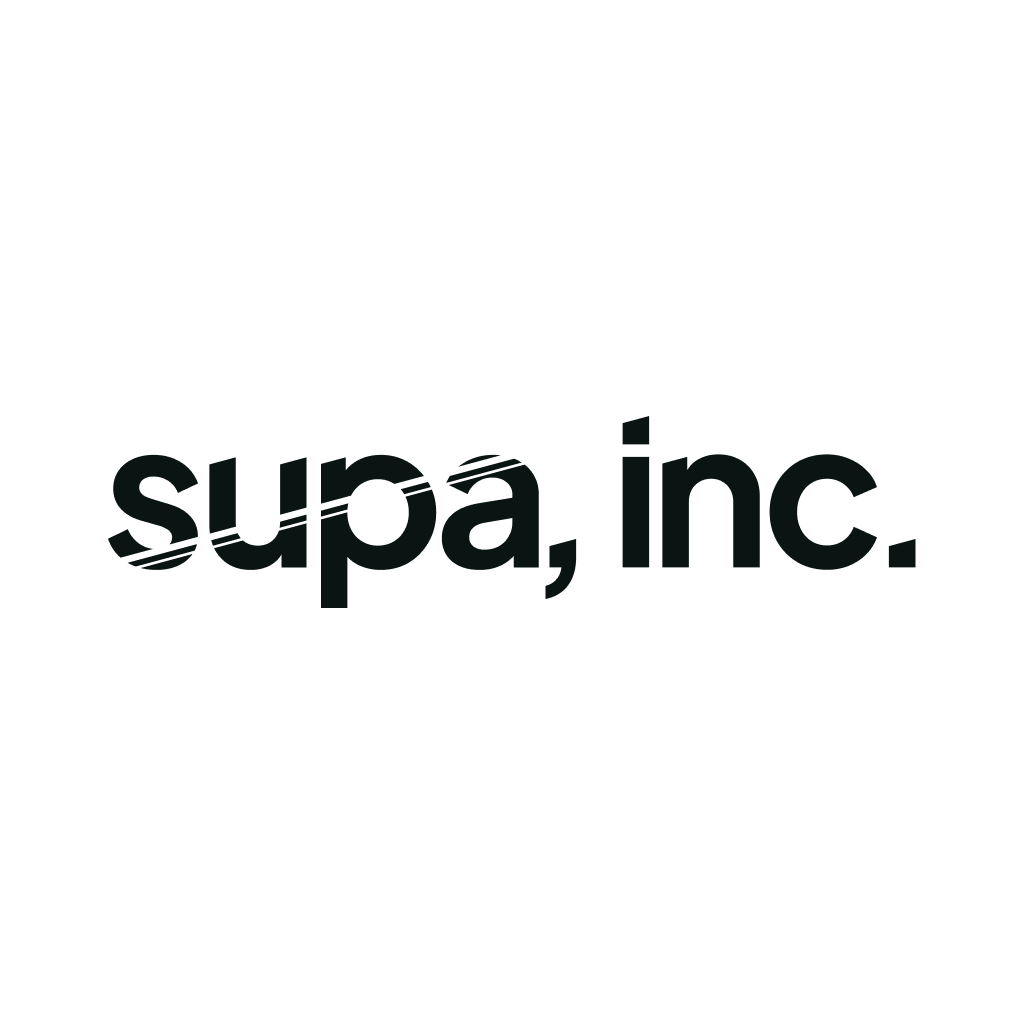
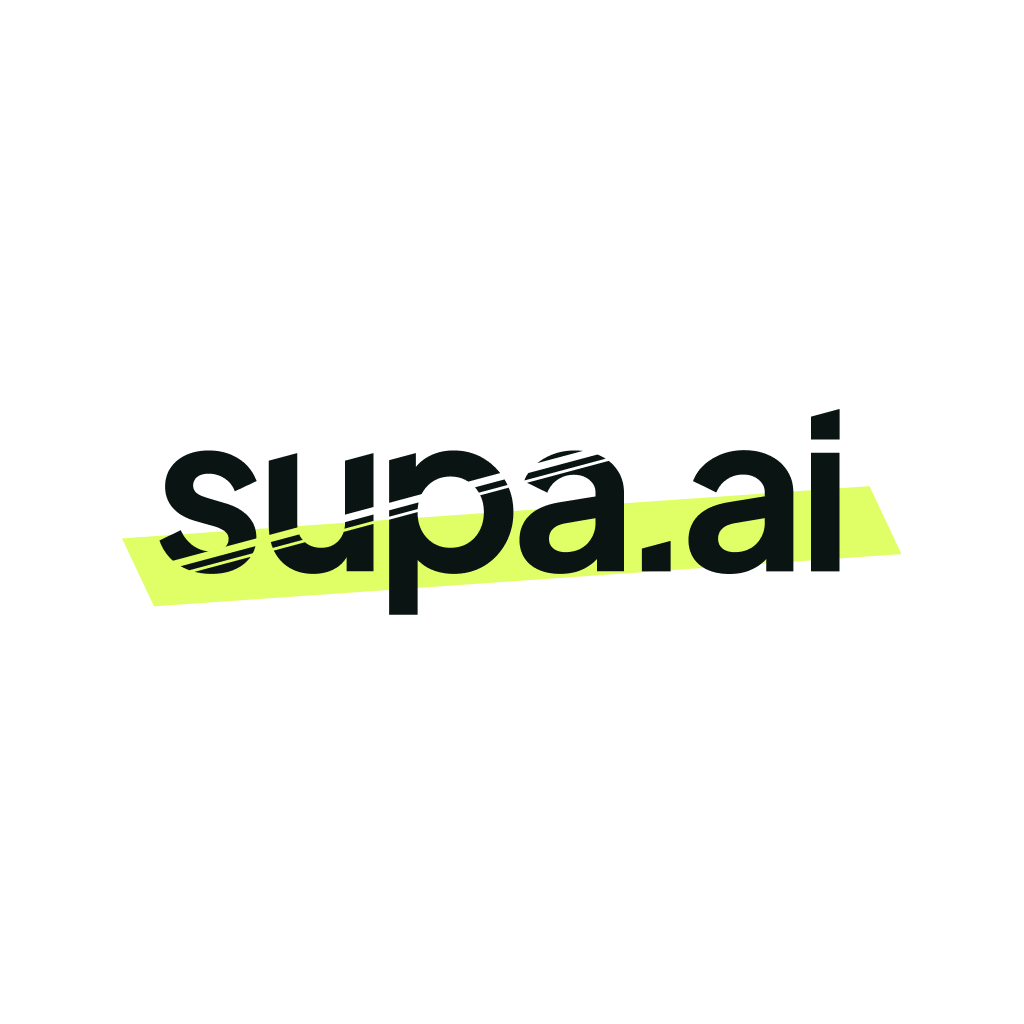
スポンサーの並びを公開データの申込順にそろえ、ロゴ未掲載の3社を載せる
会場のバックパネルをプランごとに fortee の公開データ（申込順）で並べることにしたため、
サイトも同じ順にそろえる。これまでの並びは公開データと一致していなかった。

タイムリープ、Helpfeel、サンリオは Web 用ロゴが届いていたので、Figma の Sponsor
ページの枠に置いて 2 倍で書き出した。枠に対する大きさは、既存ロゴの見える範囲を
測って縦横比との関係を求め、それに合わせている（タイムリープ 320x199、Helpfeel
296x254、サンリオ幅 388、いずれも 512 枠での値）。

supa は 10/23 にロゴのデザイン変更の連絡があったため、新しい SVG に差し替えた。

Changed region(s): [[0.0938, 0.4062, 0.9062, 0.625]]

diff --git a/2026tokyo/src/data/sponsors.ts b/2026tokyo/src/data/sponsors.ts
@@ -1,6 +1,9 @@
 // スポンサー情報。プラン構成・社名・リンク先は fortee の公開データに基づく。
 // https://fortee.jp/yapc-tokyo-2026/api/sponsors
 //
+// プランの中の並びは公開データの並び（申込順）に合わせている。会場のバックパネルも
+// 同じ順に並べているため、追加や入れ替えのときも公開データの順を保つ。
+//
 // ロゴは各社から提出されたものを Figma の Sponsor ページで 512x512 の枠に収め、
 // そこから 2 倍の 1024x1024 で書き出して src/assets/sponsors/ に置いている。
 // 枠に対するロゴの大きさは Figma 側で決めているため、差し替えるときは Figma を
@@ -26,6 +29,7 @@ import gendaLogo from "../assets/sponsors/genda.png";
 import greeLogo from "../assets/sponsors/gree.png";
 import hacomonoLogo from "../assets/sponsors/hacomono.png";
 import hatenaLogo from "../assets/sponsors/hatena.png";
+import helpfeelLogo from "../assets/sponsors/helpfeel.png";
 import hirerooLogo from "../assets/sponsors/hireroo.png";
 import jobDraftLogo from "../assets/sponsors/job-draft.png";
 import kayacLogo from "../assets/sponsors/kayac.png";
@@ -40,6 +44,7 @@ import nekotoastLogo from "../assets/sponsors/nekotoast.png";
 import optimLogo from "../assets/sponsors/optim.png";
 import reproLogo from "../assets/sponsors/repro.png";
 import sakuraLogo from "../assets/sponsors/sakura.png";
+import sanrioLogo from "../assets/sponsors/sanrio.png";
 import sansanLogo from "../assets/sponsors/sansan.png";
 import shonankaLogo from "../assets/sponsors/shonanka.png";
 import showroomLogo from "../assets/sponsors/showroom.png";
@@ -48,6 +53,7 @@ import smartbankLogo from "../assets/sponsors/smartbank.png";
 import smarthrLogo from "../assets/sponsors/smarthr.png";
 import supaLogo from "../assets/sponsors/supa.png";
 import tebikiLogo from "../assets/sponsors/tebiki.png";
+import timeleapLogo from "../assets/sponsors/timeleap.png";
 import vaddyLogo from "../assets/sponsors/vaddy.png";
 import xtmLogo from "../assets/sponsors/xtm.png";
 import zauelLogo from "../assets/sponsors/zauel.png";
@@ -57,10 +63,10 @@ export const sponsorPlans = [
     id: "perl-sponsor",
     name: "Perl Sponsor",
     sponsors: [
-      { name: "株式会社hacomono", url: "https://www.hacomono.co.jp/", logo: hacomonoLogo },
       { name: "シックス・アパート株式会社", url: "https://www.sixapart.jp/", logo: sixapartLogo },
       { name: "株式会社ディー・エヌ・エー", url: "https://dena.com/jp/", logo: denaLogo },
       { name: "さくらインターネット株式会社", url: "https://www.sakura.ad.jp/", logo: sakuraLogo },
+      { name: "株式会社hacomono", url: "https://www.hacomono.co.jp/", logo: hacomonoLogo },
     ],
   },
   {
@@ -68,23 +74,24 @@ export const sponsorPlans = [
     name: "Platinum Sponsor",
     sponsors: [
       { name: "株式会社スマートバンク", url: "https://smartbank.co.jp/recruit/engineer-summary/", logo: smartbankLogo },
+      { name: "ファインディ株式会社", url: "https://findy.co.jp/company/", logo: findyLogo },
       // ご提供いただいたロゴは横組み。縦組みのロックアップは 2024hiroshima
       // (src/images/sponsor/hireroo.png) にあるが、Figma では横組みを採用している。
       { name: "株式会社ハイヤールー", url: "https://hireroo.io/", logo: hirerooLogo },
+      // ご提供いただいたのは Illustrator 形式のみ。RGB 版の 1 ページ目(白地に黒)を使用。
+      { name: "株式会社CARTA HOLDINGS", url: "https://cartaholdings.co.jp/engineering?utm_source=yapc2026&utm_medium=Paid+Other&utm_campaign=yapc2026", logo: cartaLogo },
       // ご提供いただいたのはブランドキット一式の zip。その中の
       // ANDPAD_RGB_for Screen/svg/Secondary Logo_Vertical_RGB.svg を使用
       // （横組みの Primary は正方形枠に対して横長すぎるため）。
       { name: "株式会社アンドパッド", url: "https://engineer.andpad.co.jp/", logo: andpadLogo },
+      // 2026-10-23 にロゴのデザイン変更のご連絡があり、新しい supa.ai の SVG を使用。
       { name: "supa, inc.", url: "https://supa.co.jp/", logo: supaLogo },
-      { name: "Tebiki株式会社", url: "https://tebiki.co.jp/", logo: tebikiLogo },
-      { name: "ファインディ株式会社", url: "https://findy.co.jp/company/", logo: findyLogo },
+      { name: "タイムリープ株式会社", url: "https://timeleap.co.jp/", logo: timeleapLogo },
       { name: "株式会社クロステック・マネジメント（京都芸術大学）", url: "https://xtm.jp/", logo: xtmLogo },
       { name: "GMO Flatt Security株式会社", url: "https://flatt.tech/", logo: flattSecurityLogo },
       { name: "Cloudflare Japan株式会社", url: "https://www.cloudflare.com/", logo: cloudflareLogo },
-      // ご提供いただいたのは Illustrator 形式のみ。RGB 版の 1 ページ目(白地に黒)を使用。
-      { name: "株式会社CARTA HOLDINGS", url: "https://cartaholdings.co.jp/engineering?utm_source=yapc2026&utm_medium=Paid+Other&utm_campaign=yapc2026", logo: cartaLogo },
-      // { name: "タイムリープ株式会社", url: "https://timeleap.co.jp/", logo: ??? },
-      // { name: "株式会社Helpfeel", url: "https://corp.helpfeel.com", logo: ??? },
+      { name: "Tebiki株式会社", url: "https://tebiki.co.jp/", logo: tebikiLogo },
+      { name: "株式会社Helpfeel", url: "https://corp.helpfeel.com", logo: helpfeelLogo },
     ],
   },
   {
@@ -92,16 +99,16 @@ export const sponsorPlans = [
     name: "Gold Sponsor",
     sponsors: [
       { name: "SHOWROOM株式会社", url: "https://www.showroom-live.com/", logo: showroomLogo },
-      { name: "株式会社はてな", url: "https://hatena.co.jp", logo: hatenaLogo },
-      { name: "Repro株式会社", url: "https://company.repro.io/", logo: reproLogo },
-      { name: "株式会社メルカリ", url: "https://about.mercari.com/", logo: mercariLogo },
       { name: "株式会社フリークアウト", url: "https://www.fout.co.jp/freakout/", logo: freakoutLogo },
+      { name: "株式会社はてな", url: "https://hatena.co.jp", logo: hatenaLogo },
       { name: "Sansan株式会社", url: "https://jp.corp-sansan.com/", logo: sansanLogo },
       { name: "株式会社COLSIS", url: "https://colsis.jp", logo: colsisLogo },
-      { name: "株式会社モバイルファクトリー", url: "https://www.mobilefactory.jp/", logo: mobileFactoryLogo },
-      { name: "株式会社SmartHR", url: "https://hello-world.smarthr.co.jp/", logo: smarthrLogo },
+      { name: "Repro株式会社", url: "https://company.repro.io/", logo: reproLogo },
       { name: "株式会社ネコトーストラボ", url: "https://nekotoast-lab.com/", logo: nekotoastLogo },
-      // { name: "株式会社サンリオ", url: "https://corporate.sanrio.co.jp/", logo: ??? },
+      { name: "株式会社モバイルファクトリー", url: "https://www.mobilefactory.jp/", logo: mobileFactoryLogo },
+      { name: "株式会社メルカリ", url: "https://about.mercari.com/", logo: mercariLogo },
+      { name: "株式会社サンリオ", url: "https://corporate.sanrio.co.jp/", logo: sanrioLogo },
+      { name: "株式会社SmartHR", url: "https://hello-world.smarthr.co.jp/", logo: smarthrLogo },
       { name: "転職ドラフト", url: "https://job-draft.jp/?utm_source=site&utm_medium=conference&utm_campaign=allconference&utm_term=yapc2026", logo: jobDraftLogo },
     ],
   },
@@ -110,8 +117,8 @@ export const sponsorPlans = [
     name: "Silver Sponsor",
     sponsors: [
       { name: "VAddy", url: "https://vaddy.net/ja/", logo: vaddyLogo },
-      { name: "合同会社武藤電算機技術", url: "https://muto-ct.jp", logo: mutoCtLogo },
       { name: "面白法人カヤック", url: "https://www.kayac.com/", logo: kayacLogo },
+      { name: "合同会社武藤電算機技術", url: "https://muto-ct.jp", logo: mutoCtLogo },
       { name: "有限会社エポック", url: "https://j-epoch.com/", logo: epochLogo },
     ],
   },
@@ -121,17 +128,17 @@ export const sponsorPlans = [
     sponsors: [
       { name: "こだまリサーチ株式会社", url: "https://www.kodamari.com/", logo: kodamariLogo },
       { name: "株式会社Diverse", url: "https://diverse-inc.co.jp/", logo: diverseLogo },
-      { name: "エムシーディースリー株式会社", url: "https://www.mcd3.co.jp/recruit", logo: mcd3Logo },
       { name: "株式会社LayerX", url: "https://layerx.co.jp/", logo: layerxLogo },
       { name: "株式会社リンケージ", url: "https://linkage-inc.co.jp/", logo: linkageLogo },
       { name: "株式会社グリー", url: "https://cp.gree.net/", logo: greeLogo },
+      // ご提供の SVG は黄色の帯が図柄からずれて描画されるため、同じ図柄の
+      // Illustrator 形式(RGB 版)を Figma に取り込んでいる。
+      { name: "湘.なんか", url: "https://shonanka.connpass.com/", logo: shonankaLogo },
+      { name: "エムシーディースリー株式会社", url: "https://www.mcd3.co.jp/recruit", logo: mcd3Logo },
       { name: "株式会社GENDA", url: "https://genda.jp/", logo: gendaLogo },
       { name: "株式会社オプティム", url: "https://www.optim.co.jp/?utm_source=event&utm_medium=referral&utm_campaign=YPAC2026", logo: optimLogo },
       { name: "株式会社永和システムマネジメント", url: "https://agile.esm.co.jp/", logo: esmLogo },
       { name: "合同会社ザウエル", url: "https://zauel.co.jp/", logo: zauelLogo },
-      // ご提供の SVG は黄色の帯が図柄からずれて描画されるため、同じ図柄の
-      // Illustrator 形式(RGB 版)を Figma に取り込んでいる。
-      { name: "湘.なんか", url: "https://shonanka.connpass.com/", logo: shonankaLogo },
     ],
   },
 ] as const;
